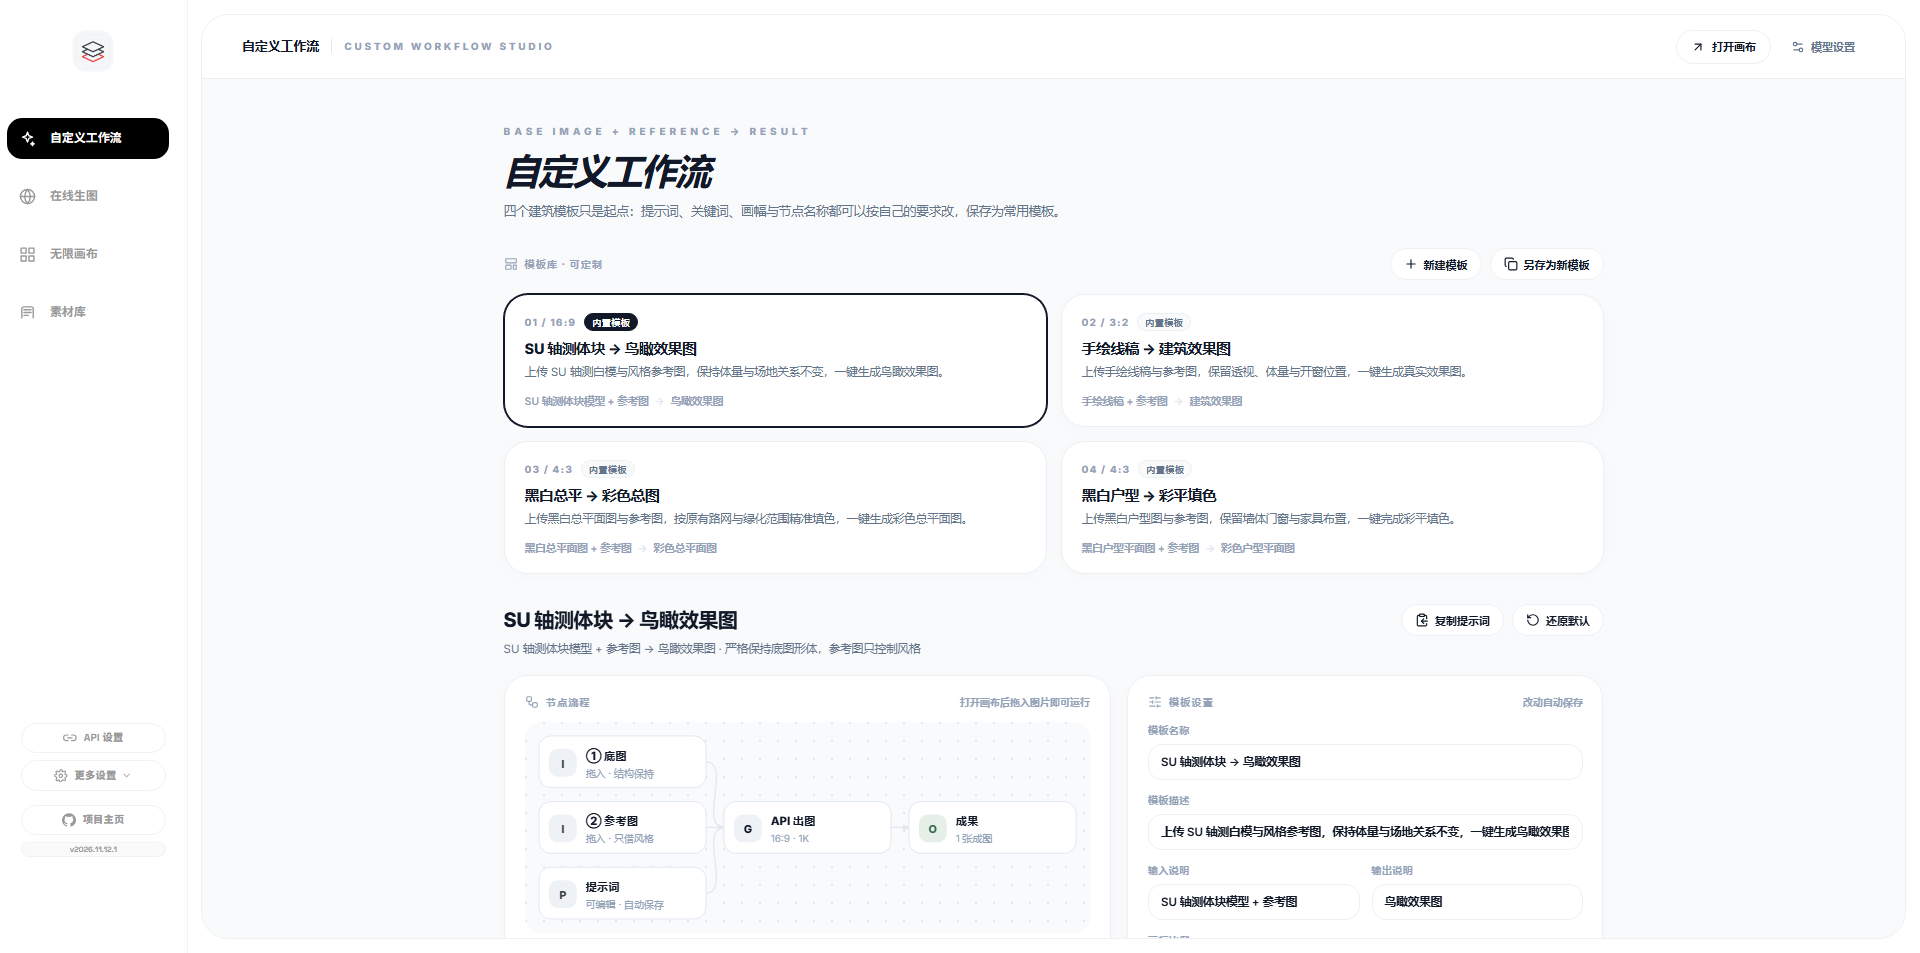
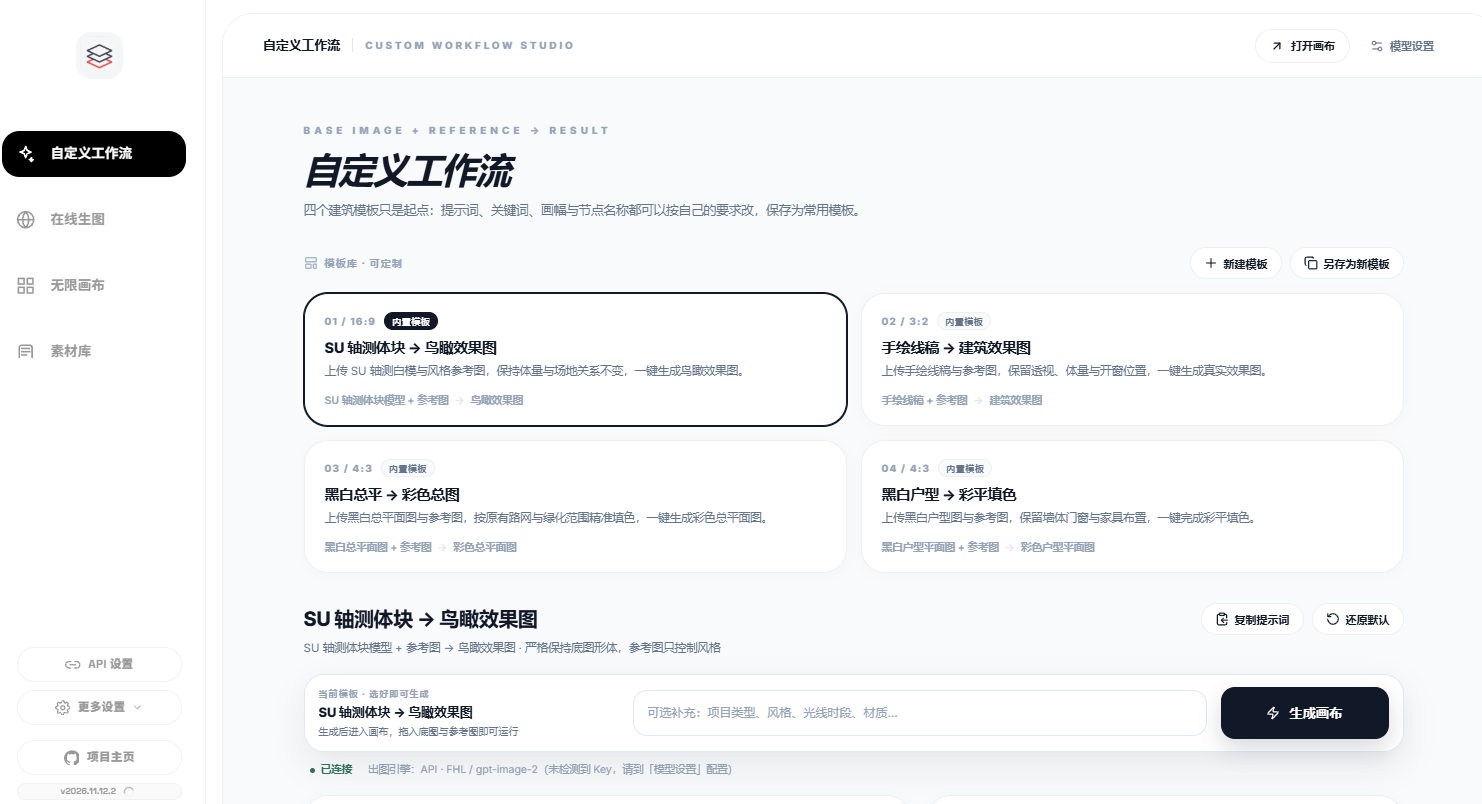
docs: refresh custom workflow screenshot
Replace the workflow preview with the custom workflow studio capture in every README language

diff --git a/README.ru.md b/README.ru.md
@@ -76,9 +76,9 @@ Same Wi-Fi (phone/tablet): http://192.168.x.x:3000/
 
 ## Скриншоты
 
-| Бесконечный холст · воркфлоу | Онлайн-студия | Библиотека материалов |
+| Пользовательские воркфлоу | Онлайн-студия | Библиотека материалов |
 | --- | --- | --- |
-| ![Воркфлоу холста](docs/screenshots/canvas-workflow.png) | ![Онлайн-студия](docs/screenshots/online-studio.png) | ![Библиотека материалов](docs/screenshots/asset-library.png) |
+| ![Пользовательские воркфлоу](docs/screenshots/custom-workflow.png) | ![Онлайн-студия](docs/screenshots/online-studio.png) | ![Библиотека материалов](docs/screenshots/asset-library.png) |
 
 ## Последние обновления
 

diff --git a/README.ja.md b/README.ja.md
@@ -76,9 +76,9 @@ Same Wi-Fi (phone/tablet): http://192.168.x.x:3000/
 
 ## 画面プレビュー
 
-| 無限キャンバス · ワークフロー | オンライン生成 | 素材ライブラリ |
+| カスタムワークフロー | オンライン生成 | 素材ライブラリ |
 | --- | --- | --- |
-| ![キャンバスのワークフロー](docs/screenshots/canvas-workflow.png) | ![オンライン生成](docs/screenshots/online-studio.png) | ![素材ライブラリ](docs/screenshots/asset-library.png) |
+| ![カスタムワークフロー](docs/screenshots/custom-workflow.png) | ![オンライン生成](docs/screenshots/online-studio.png) | ![素材ライブラリ](docs/screenshots/asset-library.png) |
 
 ## 最近の更新
 

diff --git a/README.fr.md b/README.fr.md
@@ -76,9 +76,9 @@ L'application ne contacte que l'API que vous configurez, et uniquement lorsque v
 
 ## Aperçu de l'interface
 
-| Toile infinie · workflow | Studio en ligne | Bibliothèque d'assets |
+| Workflows personnalisés | Studio en ligne | Bibliothèque d'assets |
 | --- | --- | --- |
-| ![Workflow de la toile](docs/screenshots/canvas-workflow.png) | ![Studio en ligne](docs/screenshots/online-studio.png) | ![Bibliothèque d'assets](docs/screenshots/asset-library.png) |
+| ![Workflows personnalisés](docs/screenshots/custom-workflow.png) | ![Studio en ligne](docs/screenshots/online-studio.png) | ![Bibliothèque d'assets](docs/screenshots/asset-library.png) |
 
 ## Dernières nouveautés
 

diff --git a/README.ko.md b/README.ko.md
@@ -76,9 +76,9 @@ Same Wi-Fi (phone/tablet): http://192.168.x.x:3000/
 
 ## 화면 미리보기
 
-| 무한 캔버스 · 워크플로 | 온라인 스튜디오 | 에셋 라이브러리 |
+| 커스텀 워크플로 | 온라인 스튜디오 | 에셋 라이브러리 |
 | --- | --- | --- |
-| ![캔버스 워크플로](docs/screenshots/canvas-workflow.png) | ![온라인 스튜디오](docs/screenshots/online-studio.png) | ![에셋 라이브러리](docs/screenshots/asset-library.png) |
+| ![커스텀 워크플로](docs/screenshots/custom-workflow.png) | ![온라인 스튜디오](docs/screenshots/online-studio.png) | ![에셋 라이브러리](docs/screenshots/asset-library.png) |
 
 ## 최근 업데이트
 

diff --git a/README.es.md b/README.es.md
@@ -76,9 +76,9 @@ La aplicación solo contacta con la API que configures, y solo cuando llamas exp
 
 ## Capturas de pantalla
 
-| Lienzo infinito · flujo | Estudio online | Biblioteca de recursos |
+| Flujos personalizados | Estudio online | Biblioteca de recursos |
 | --- | --- | --- |
-| ![Flujo del lienzo](docs/screenshots/canvas-workflow.png) | ![Estudio online](docs/screenshots/online-studio.png) | ![Biblioteca de recursos](docs/screenshots/asset-library.png) |
+| ![Flujos personalizados](docs/screenshots/custom-workflow.png) | ![Estudio online](docs/screenshots/online-studio.png) | ![Biblioteca de recursos](docs/screenshots/asset-library.png) |
 
 ## Novedades
 

diff --git a/README.en.md b/README.en.md
@@ -76,9 +76,9 @@ The app only talks to the API endpoint you configure, and only when you explicit
 
 ## Screenshots
 
-| Infinite canvas · workflow | Online studio | Asset library |
+| Custom workflows | Online studio | Asset library |
 | --- | --- | --- |
-| ![Infinite canvas workflow](docs/screenshots/canvas-workflow.png) | ![Online studio](docs/screenshots/online-studio.png) | ![Asset library](docs/screenshots/asset-library.png) |
+| ![Custom workflows](docs/screenshots/custom-workflow.png) | ![Online studio](docs/screenshots/online-studio.png) | ![Asset library](docs/screenshots/asset-library.png) |
 
 ## Recent updates
 

diff --git a/README.md b/README.md
@@ -76,9 +76,9 @@ Same Wi-Fi (phone/tablet): http://192.168.x.x:3000/
 
 ## 界面预览
 
-| 无限画布 · 工作流 | 在线生图 | 素材库 |
+| 自定义工作流 | 在线生图 | 素材库 |
 | --- | --- | --- |
-| ![无限画布工作流](docs/screenshots/canvas-workflow.png) | ![在线生图](docs/screenshots/online-studio.png) | ![素材库](docs/screenshots/asset-library.png) |
+| ![自定义工作流](docs/screenshots/custom-workflow.png) | ![在线生图](docs/screenshots/online-studio.png) | ![素材库](docs/screenshots/asset-library.png) |
 
 ## 最近更新
 
